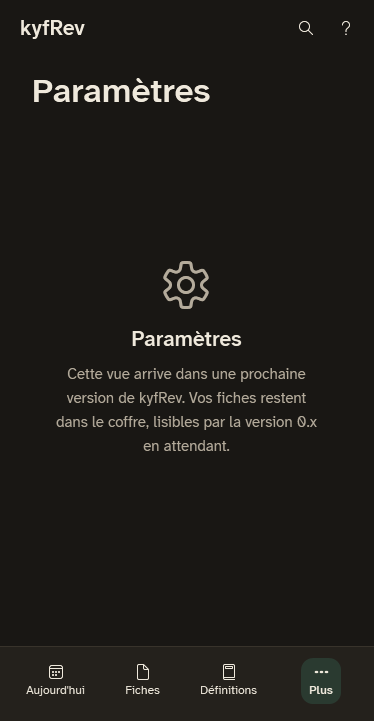
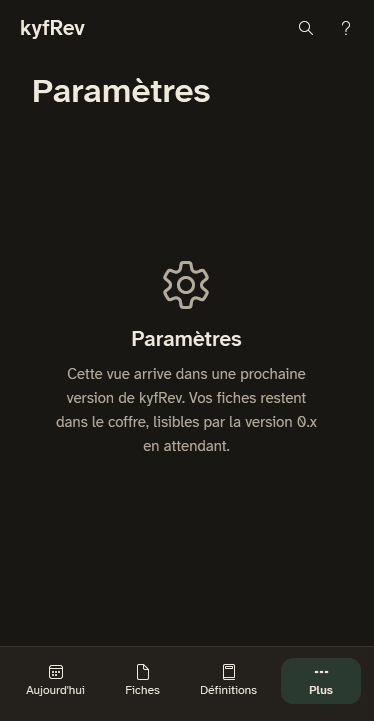
Onglets : l'état actif de « Plus » couvre tout le bouton
Son fond actif ne faisait que la taille de son contenu (40 px pour un bouton de 87 px), alors que le
survol couvre tout le bouton : les deux formes se superposaient mal.

Changed region(s): [[0.7353, 0.9154, 0.8235, 0.9764], [0.9118, 0.9154, 0.9706, 0.9764]]

diff --git a/src/KyfRev.Presentation.Wpf/Shell/ShellWindow.xaml b/src/KyfRev.Presentation.Wpf/Shell/ShellWindow.xaml
@@ -211,7 +211,7 @@
             </ListBox.ItemsPanel>
           </ListBox>
           <Button x:Name="MoreButton" Grid.Column="1" Margin="4,4,4,8" Style="{DynamicResource Kyf.Button.Subtle}" Click="OnMoreClick"
-                  Padding="0" AutomationProperties.Name="{x:Static p:ShellText.MoreViews}" ToolTip="{x:Static p:ShellText.MoreViews}">
+                  Padding="0" HorizontalContentAlignment="Stretch" VerticalContentAlignment="Stretch" AutomationProperties.Name="{x:Static p:ShellText.MoreViews}" ToolTip="{x:Static p:ShellText.MoreViews}">
             <Button.ContextMenu>
               <ContextMenu x:Name="MoreMenu" ItemsSource="{Binding OverflowNavigation}" DisplayMemberPath="Label"
                            AutomationProperties.Name="{x:Static p:ShellText.MoreViews}" />
@@ -227,7 +227,7 @@
                   </Style.Triggers>
                 </Style>
               </Border.Style>
-              <StackPanel>
+              <StackPanel VerticalAlignment="Center">
                 <kyf:Icon Text="{x:Static kyf:Icons.More}" HorizontalAlignment="Center" />
                 <TextBlock Text="{x:Static p:ShellText.More}" FontSize="12" TextAlignment="Center" Margin="0,2,0,0" />
               </StackPanel>

diff --git a/tests/KyfRev.Presentation.Wpf.Tests/ShellWindowTests.cs b/tests/KyfRev.Presentation.Wpf.Tests/ShellWindowTests.cs
@@ -241,6 +241,11 @@ public sealed class ShellWindowTests
             Assert.AreEqual("Paramètres", shell.Current.Label);
             Assert.AreEqual(FontWeights.SemiBold, TextElement.GetFontWeight(background));
 
+            // L'état actif couvre tout le bouton, comme son survol.
+            window.UpdateLayout();
+            Assert.AreEqual(more.ActualWidth - more.BorderThickness.Left - more.BorderThickness.Right, background.ActualWidth, 0.5);
+            Assert.AreEqual(more.ActualHeight - more.BorderThickness.Top - more.BorderThickness.Bottom, background.ActualHeight, 0.5);
+
             var tabs = (ListBox)window.FindName("TabNavigation");
             Assert.AreEqual(-1, tabs.SelectedIndex);
             tabs.SelectedIndex = 1;
